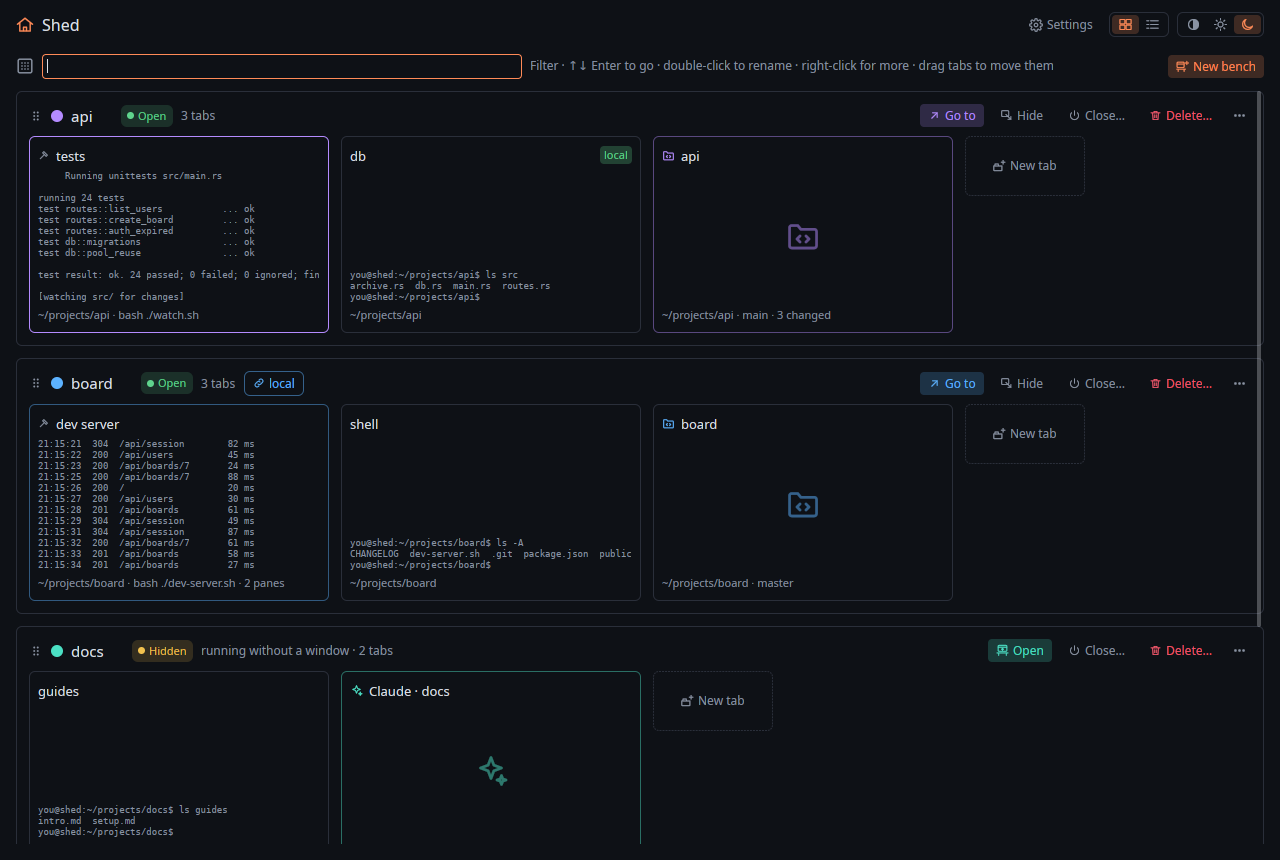
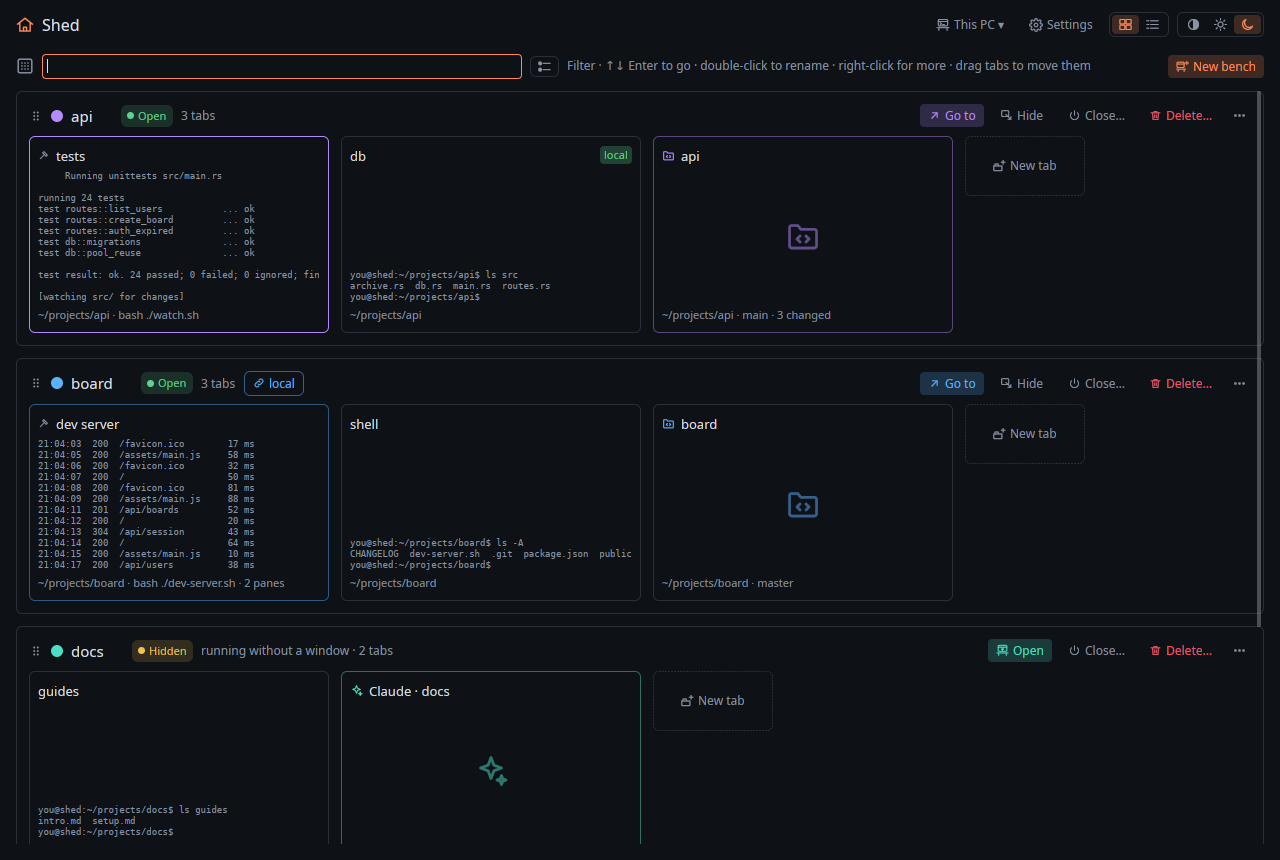
The Shed window can list open benches only
- A mode toggle beside the pegboard's filter, Open benches only, leaves
  closed benches out (hidden ones, still running, stay); the filter, the
  arrow keys and Enter work on what is left
- Remembered as open_only under [pegboard] in shed.toml (off by default)
- Moving a bench while closed ones are left out keeps their places
- Screenshots of the Shed window retaken

diff --git a/crates/shed-app/src/pegboard.rs b/crates/shed-app/src/pegboard.rs
@@ -109,6 +109,8 @@ pub struct Pegboard {
     /// keeps, never from `AppState`, so that changes it does not show (a
     /// title it does not draw, a terminal's size) draw nothing.
     ui: UiColors,
+    /// Only open benches are listed ("Open benches only"), as of the last `sync`.
+    open_only: bool,
     _subscriptions: Vec<Subscription>,
 }
 
@@ -274,6 +276,7 @@ impl Pegboard {
             cards: HashMap::new(),
             shown: Vec::new(),
             ui,
+            open_only: false,
             _subscriptions: subscriptions,
         };
         board.sync(cx);
@@ -346,10 +349,14 @@ impl Pegboard {
             }
         }
         self.cards.retain(|id, _| ids.contains(id));
-        let ui = self.state.read(cx).settings.ui.clone();
-        if ids != self.shown || ui != self.ui {
+        let (ui, open_only) = {
+            let settings = &self.state.read(cx).settings;
+            (settings.ui.clone(), settings.config.pegboard.open_only)
+        };
+        if ids != self.shown || ui != self.ui || open_only != self.open_only {
             self.shown = ids;
             self.ui = ui;
+            self.open_only = open_only;
             cx.notify();
         }
     }
@@ -458,9 +465,7 @@ impl Pegboard {
         if id == to {
             return;
         }
-        let query = std::mem::take(&mut self.query);
-        let mut order: Vec<BenchId> = self.entries(cx).iter().map(|e| e.bench.id).collect();
-        self.query = query;
+        let mut order = self.order(cx);
         let (Some(from), Some(target)) = (order.iter().position(|b| *b == id), order.iter().position(|b| *b == to)) else { return };
         order.remove(from);
         order.insert(target, id);
@@ -473,13 +478,35 @@ impl Pegboard {
         cx.notify();
     }
 
-    /// Every bench in order, each with the tabs the filter matches.
+    /// Every bench in order, each with the tabs the filter matches; only
+    /// open ones while "Open benches only" is on.
     fn entries(&self, cx: &Context<Self>) -> Vec<Entry> {
+        let open_only = self.state.read(cx).settings.config.pegboard.open_only;
+        let mut entries = self.list(&self.query, cx);
+        if open_only {
+            entries.retain(|e| e.status != Status::Closed);
+        }
+        entries
+    }
+
+    /// Every bench in order, each with the tabs `query` matches.
+    fn list(&self, query: &str, cx: &Context<Self>) -> Vec<Entry> {
         let state = self.state.read(cx);
         let data = cx.try_global::<PegboardData>().map(|d| &d.0);
         let stored = data.map(|d| d.stored.as_slice()).unwrap_or_default();
         let order = data.map(|d| d.order.as_slice()).unwrap_or_default();
-        shed_client::pegboard::list(&state.tree, |b| state.has_window(b), stored, order, &self.query)
+        shed_client::pegboard::list(&state.tree, |b| state.has_window(b), stored, order, query)
+    }
+
+    /// Every bench's id in order, shown or not (moving one keeps the others' places).
+    fn order(&self, cx: &Context<Self>) -> Vec<BenchId> {
+        self.list("", cx).iter().map(|e| e.bench.id).collect()
+    }
+
+    /// Lists only open benches, or every one.
+    fn set_open_only(&mut self, on: bool, cx: &mut Context<Self>) {
+        self.selected = 0;
+        self.state.update(cx, |state, cx| state.set_config_value(Some("pegboard"), "open_only", toml_edit::Value::from(on), cx));
     }
 
     /// Opens a bench, at `tab` if given: raises its window, gives a hidden
@@ -499,9 +526,7 @@ impl Pegboard {
 
     /// A bench as listed now (whatever the filter), by id.
     fn listed(&self, bench: BenchId, cx: &Context<Self>) -> Option<Entry> {
-        let state = self.state.read(cx);
-        let stored = cx.try_global::<PegboardData>().map(|d| d.0.stored.as_slice()).unwrap_or_default();
-        shed_client::pegboard::list(&state.tree, |b| state.has_window(b), stored, &[], "").into_iter().find(|e| e.bench.id == bench)
+        self.list("", cx).into_iter().find(|e| e.bench.id == bench)
     }
 
     /// Opens bench `bench` (see `open`).
@@ -732,9 +757,7 @@ impl Pegboard {
 
     /// Moves a bench one place up (-1) or down (1).
     fn move_bench_by(&mut self, id: BenchId, step: isize, cx: &mut Context<Self>) {
-        let query = std::mem::take(&mut self.query);
-        let order: Vec<BenchId> = self.entries(cx).iter().map(|e| e.bench.id).collect();
-        self.query = query;
+        let order = self.order(cx);
         let Some(at) = order.iter().position(|b| *b == id) else { return };
         let Some(to) = at.checked_add_signed(step).and_then(|i| order.get(i)) else { return };
         self.move_bench(id, *to, cx);
@@ -1693,13 +1716,37 @@ impl Render for Pegboard {
 }
 
 impl Pegboard {
+    /// "Open benches only": a mode toggle beside the filter.
+    fn open_only_toggle(&self, ui: &UiColors, cx: &mut Context<Self>) -> impl IntoElement + use<> {
+        let on = self.open_only;
+        let tint = if on { ui.accent } else { ui.text_dim };
+        div()
+            .id("open-only")
+            .flex_none()
+            .px_1p5()
+            .py_0p5()
+            .rounded_md()
+            .border_1()
+            .border_color(hsla(if on { ui.accent } else { ui.divider }))
+            .cursor_pointer()
+            .when(on, |d| d.bg(hsla_alpha(ui.accent, 0.2)))
+            .when(!on, |d| d.hover(|s| s.bg(hsla(ui.tab_hover))))
+            .tooltip(menu::tooltip(if on { "Open benches only (on): closed benches are not listed" } else { "Open benches only: leave closed benches out of the list" }))
+            .child(svg().path(icon("open-only")).size(crate::theme::us(15.0)).text_color(hsla(tint)))
+            .on_click(cx.listener(move |this, _, _, cx| this.set_open_only(!on, cx)))
+    }
+
     fn render_board(&mut self, cx: &mut Context<Self>) -> AnyElement {
         // From what `sync` kept: reading `AppState` here would draw the
         // window again at every change to it.
         let ui = self.ui.clone();
         let mut list = div().flex().flex_col().gap_3().children(self.shown.iter().filter_map(|id| self.cards.get(id).cloned()));
         if self.shown.is_empty() {
-            let empty = if self.query.is_empty() { "No benches yet. Make one with “New bench”." } else { "Nothing matches." };
+            let empty = match (self.query.is_empty(), self.open_only) {
+                (false, _) => "Nothing matches.",
+                (true, true) => "No open benches. Closed ones are listed with “Open benches only” off.",
+                (true, false) => "No benches yet. Make one with “New bench”.",
+            };
             list = list.child(div().text_color(hsla(ui.text_dim)).child(empty));
         }
 
@@ -1712,6 +1759,7 @@ impl Pegboard {
             .gap_2()
             .child(svg().path(icon("pegboard")).size(crate::theme::us(18.0)).text_color(hsla(ui.text_dim)))
             .child(div().flex_1().max_w(px(480.0)).text_size(crate::theme::us(14.0)).child(self.filter.clone()))
+            .child(self.open_only_toggle(&ui, cx))
             .child(
                 div()
                     .flex_1()
@@ -1827,6 +1875,61 @@ mod tests {
         assert_eq!(drawn(cx), [a + 1, w]);
         change(cx, &|tree| tree.benches[1].name = "website".into());
         assert_eq!(drawn(cx), [a + 1, w + 1]);
+    }
+
+    /// "Open benches only" leaves closed benches out, filter and keys
+    /// working on what is left.
+    #[gpui::test]
+    fn open_benches_only(cx: &mut gpui::TestAppContext) {
+        cx.update(|cx| {
+            crate::theme::set_ui_scale(1.0);
+            cx.set_global(crate::prompt::CurrentUi(UiColors::default()));
+        });
+        let state = cx.new(|_| AppState::new(shed_client::keeper_conn::KeeperConn::detached(), crate::settings::Settings::default()));
+        let (api, old) = (bench("api", &[("~/api", None), ("~/api/db", None)]), bench("old", &[("~/old", None)]));
+        let (api_id, old_id) = (api.id, old.id);
+        state.update(cx, |s, cx| {
+            s.tree = shed_model::Shed { benches: vec![api], ..Default::default() };
+            cx.notify();
+        });
+        cx.update(|cx| {
+            let stored = vec![shed_proto::StoredBench { bench: old, saved: "2026-11-01T12:00:00Z".into() }];
+            cx.set_global(PegboardData(PegboardInfo { stored, previews: Vec::new(), order: Vec::new() }))
+        });
+        let st = state.clone();
+        let (board, cx) = cx.add_window_view(|window, cx| Pegboard::new(st, window, cx));
+        cx.run_until_parked();
+        let shown = |cx: &mut gpui::VisualTestContext| board.update(cx, |b, _| b.shown.clone());
+        assert_eq!(shown(cx), [api_id, old_id]);
+        let open_only = |cx: &mut gpui::VisualTestContext, on: bool| {
+            state.update(cx, |s, cx| {
+                s.settings.config.pegboard.open_only = on;
+                cx.notify();
+            });
+            cx.run_until_parked();
+        };
+        open_only(cx, true);
+        assert_eq!(shown(cx), [api_id]);
+        // Keys move through the open benches' tabs only.
+        let flat_len = |cx: &mut gpui::VisualTestContext| board.update(cx, |b, cx| flat(&b.entries(cx)).len());
+        assert_eq!(flat_len(cx), 2);
+        // The filter applies to what is left.
+        let query = |cx: &mut gpui::VisualTestContext, text: &str| {
+            board.update(cx, |b, cx| {
+                b.query = text.into();
+                b.sync(cx);
+            })
+        };
+        query(cx, "old");
+        assert!(shown(cx).is_empty());
+        query(cx, "db");
+        assert_eq!(shown(cx), [api_id]);
+        query(cx, "");
+        open_only(cx, false);
+        assert_eq!(shown(cx), [api_id, old_id]);
+        // Moving a bench keeps the closed ones' places.
+        open_only(cx, true);
+        assert_eq!(board.update(cx, |b, cx| b.order(cx)), [api_id, old_id]);
     }
 
     #[test]

diff --git a/crates/shed-model/src/config.rs b/crates/shed-model/src/config.rs
@@ -49,6 +49,17 @@ pub struct Config {
     pub keeper: KeeperSettings,
     /// How Shed fits the desktop (Linux).
     pub desktop: DesktopConfig,
+    /// The Shed window's list of benches.
+    pub pegboard: PegboardConfig,
+}
+
+/// The Shed window's list of benches (its toolbar switches these).
+#[derive(Clone, Debug, Default, PartialEq, Deserialize)]
+#[serde(default, deny_unknown_fields)]
+pub struct PegboardConfig {
+    /// Only open benches (with a window or hidden) are listed: closed
+    /// ones are left out.
+    pub open_only: bool,
 }
 
 /// How Shed fits the desktop's panel (Linux: Cinnamon and GNOME).
@@ -893,6 +904,17 @@ mod tests {
         assert!(text.contains("padding = 9 # mine"), "{text}");
         let config = Config::load_from(&path).unwrap();
         assert!(config.window.compact_pegboard && config.window.padding == 9.0);
+    }
+
+    #[test]
+    fn open_benches_only_is_remembered() {
+        let dir = tempfile::tempdir().unwrap();
+        let path = dir.path().join("shed.toml");
+        assert!(!Config::load_from(&path).unwrap_or_default().pegboard.open_only);
+        std::fs::write(&path, "theme = \"shed-dark\"\n").unwrap();
+        Config::set_value(&path, Some("pegboard"), "open_only", true.into()).unwrap();
+        let config = Config::load_from(&path).unwrap();
+        assert!(config.pegboard.open_only && config.theme.as_deref() == Some("shed-dark"));
     }
 
     #[test]

diff --git a/crates/shed-app/src/assets.rs b/crates/shed-app/src/assets.rs
@@ -13,7 +13,7 @@ macro_rules! icons {
 const FILES: &[(&str, &[u8])] = icons![
     "bench", "bench-new", "close", "detach", "keeper", "logbook", "pane", "pegboard", "private", "rack",
     "shed", "split-down", "split-right", "tab", "tab-new", "tag", "tool", "tool-waiting", "bench-color", "bench-load", "theme-auto", "theme-light",
-    "theme-dark", "more", "power", "trash", "pencil", "go", "grip", "project", "folder", "file", "terminal", "refresh", "search", "ai", "send", "stop", "eye", "branch", "plus", "minus", "discard", "history", "pull", "push", "link", "server", "copy", "view-cards", "view-list", "arrow-up", "arrow-down", "settings", "globe", "clock", "alert", "paperclip", "check",
+    "theme-dark", "more", "power", "trash", "pencil", "go", "grip", "project", "folder", "file", "terminal", "refresh", "search", "ai", "send", "stop", "eye", "branch", "plus", "minus", "discard", "history", "pull", "push", "link", "server", "copy", "view-cards", "view-list", "arrow-up", "arrow-down", "settings", "globe", "clock", "alert", "paperclip", "check", "open-only",
 ];
 
 pub struct Assets;

diff --git a/docs/user-guide.md b/docs/user-guide.md
@@ -142,7 +142,10 @@ Going to one of its tabs opens the bench.
 
 Type in the field at the top to filter: by bench, tab, tag, folder or the program
 running. Up and Down move through the tabs shown; Enter goes to the selected one;
-Escape clears the filter.
+Escape clears the filter. The toggle beside the field, **Open benches only**,
+leaves closed benches out of the list (hidden ones, still running, stay); the
+filter and the keys then work on what is left. Shed remembers it (`open_only`
+under `[pegboard]` in `shed.toml`).
 
 **Order**: drag a bench by its grip (the dots left of its colour) onto another
 bench to put it there, or use **Move Up** and **Move Down** in its menu. The order
@@ -1485,6 +1488,9 @@ integration = true             # load Shed's bash or zsh integration into its sh
 
 [macos]
 option_as_alt = false          # Option sends Alt to the shell instead of typing é, @, …
+
+[pegboard]
+open_only = false              # the Shed window lists open benches only (the toggle beside its filter)
 
 [desktop]
 taskbar_follows_workspace = false  # Cinnamon, GNOME: each workspace keeps its own pinned benches
